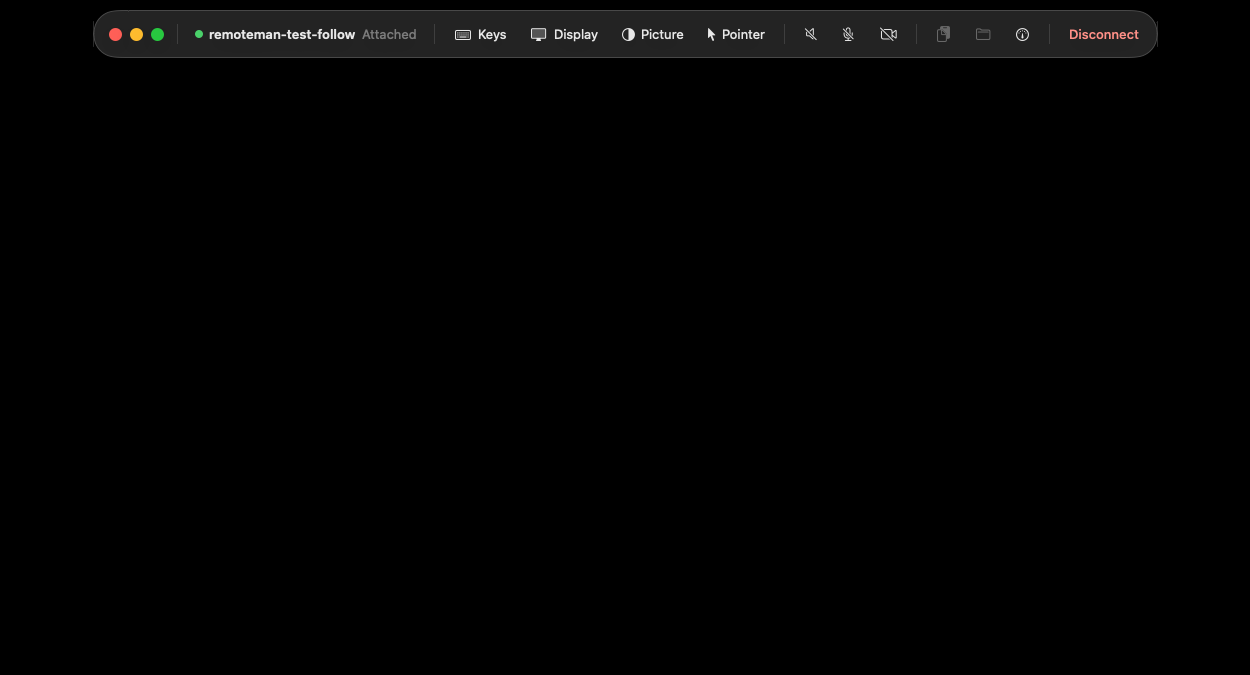
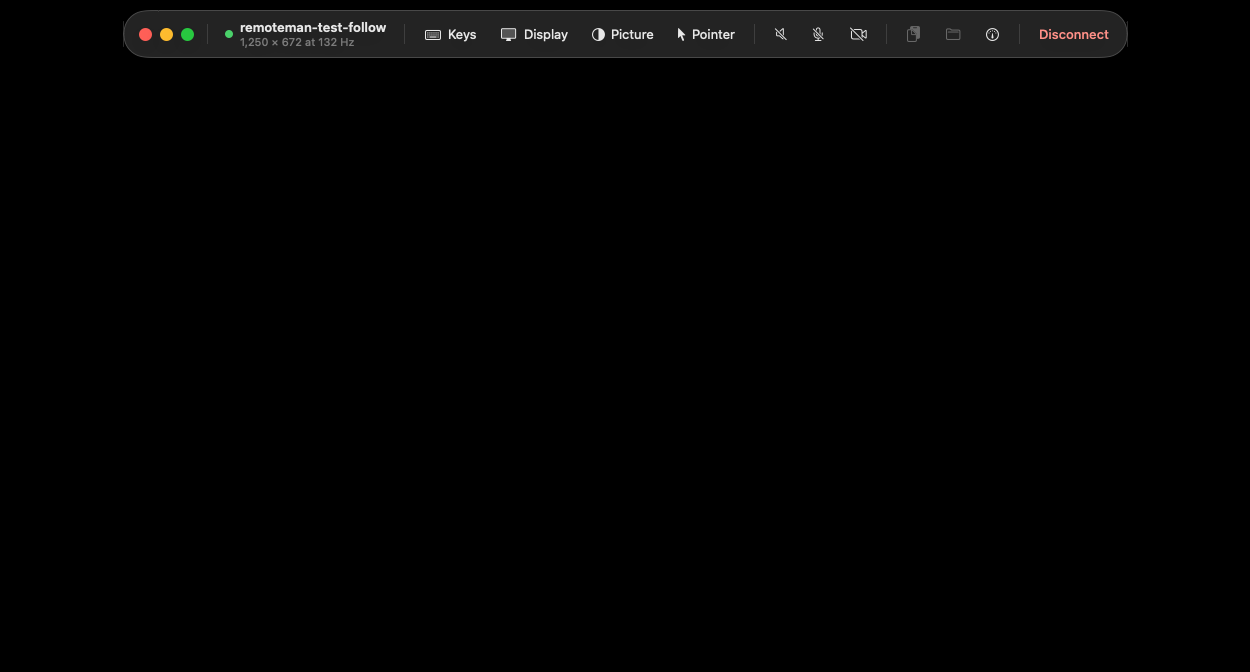
Mac viewer: the pill has the picture's size and rate under the computer's name

Changed region(s): [[0.0624, 0.0, 0.936, 0.0938]]

diff --git a/apple/Mac/SessionView.swift b/apple/Mac/SessionView.swift
@@ -448,12 +448,16 @@ struct HoverBar: View {
                 WindowButtons(window: model.window).padding(.leading, 8).padding(.trailing, 4)
                 BarDivider()
             }
-            HStack(spacing: 6) {
+            // The computer's name over the picture's size and rate, as on the iPad and the Linux viewer.
+            HStack(spacing: 7) {
                 StatusDot(color: Tokens.green)
-                Text(computer.name).fontWeight(.semibold)
-                Text("Attached").foregroundStyle(.secondary)
+                VStack(alignment: .leading, spacing: 0) {
+                    Text(computer.name).font(.system(size: 13, weight: .semibold)).lineLimit(1)
+                    if let w = facts.width, let h = facts.height, let r = facts.refresh {
+                        Text("\(w) × \(h) at \(r) Hz").font(.system(size: 11)).foregroundStyle(.secondary).lineLimit(1)
+                    }
+                }
             }
-            .font(.system(size: 13))
             .padding(.horizontal, 8)
             .frame(height: 48)
             .contentShape(Rectangle())
